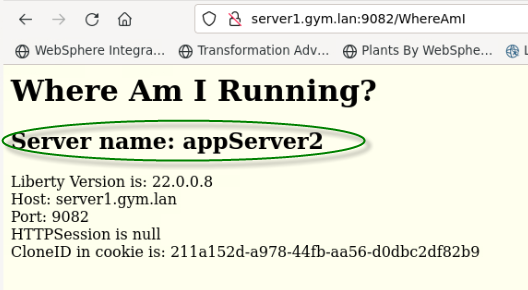
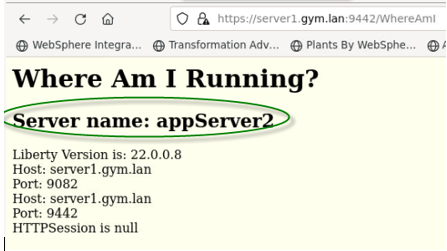
update 1020

Changed region(s): [[0.0, 0.251, 0.9306, 0.9482], [0.0, 0.0, 1.0, 0.2231]]

diff --git a/1020-Liberty-app-deployment-collectives/README.md b/1020-Liberty-app-deployment-collectives/README.md
@@ -907,7 +907,7 @@ the collective.
     
     a.  Open a new tab on the Firefox browser and test PlantsByWebSphere on **appServer1**, which is on **server0.gym.lan**
 
-        http://server0.gym.lan:9081/PlantsByWebSphere
+        https://server0.gym.lan:9441/PlantsByWebSphere
 
     **Note:** If you see the “Warning: Potential Security Risk Ahead”, > click **Advanced..-\>Accept Risk and Continue** to continue.
 
@@ -921,8 +921,11 @@ the collective.
     
     a.  Open a new tab on the Firefox browser and test PlantsByWebSphere on **appServer2**, which is on **server1.gym.lan**
 
-        http://server1.gym.lan:9082/PlantsByWebSphere
+        http://server1.gym.lan:9442/PlantsByWebSphere
 
+    **Note:** If you see the “Warning: Potential Security Risk Ahead”, > click **Advanced..-\>Accept Risk and Continue** to continue.
+    
+    ![](./images/media/image61-2.png)
 
 ### **Test the WhereAmI application:** 
 
@@ -931,7 +934,7 @@ the collective.
     a.  Open a new tab on the Firefox browser and test WhereAmI on
         **appServer1**, which is on **server0.gym.lan**
 
-        http://server0.gym.lan:9081/WhereAmI
+        https://server0.gym.lan:9441/WhereAmI
 
     ![](./images/media/image63.png)
 
@@ -941,7 +944,7 @@ the collective.
     a.  Open a new tab on the Firefox browser and test WhereAmI on
         **appServer2**, which is on **server1.gym.lan**
 
-        http://server1.gym.lan:9082/WhereAmI
+        https://server1.gym.lan:9442/WhereAmI
 
     ![](./images/media/image64.png)
 
